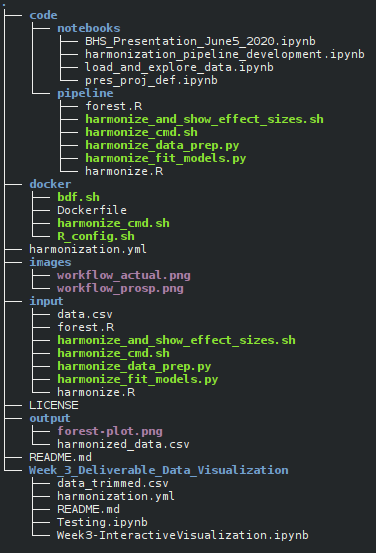
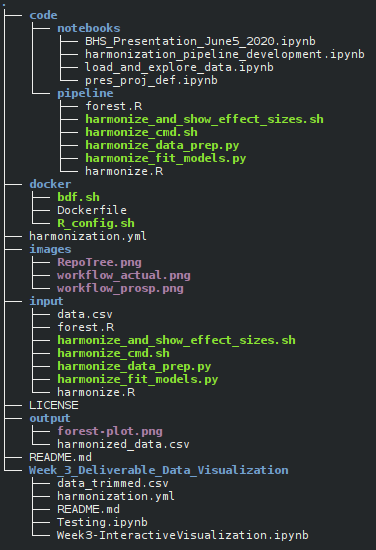
Minor corrections

diff --git a/README.md b/README.md
@@ -99,6 +99,7 @@ The [Github repository](https://github.com/brainhack-school2020/dnmacdon_ASD_mul
  * The slides used for the final Brainhack School presentation
 
 The structure of the repository is shown below:
+
 ![Repository Structure](images/RepoTree.png)
 
 ### Deliverable 2: Mini-Pipeline to test ComBat Data Harmonization
@@ -121,8 +122,11 @@ Jupyter notebooks were written to facilitate interactive data exploration. Sever
 The conda environment file harmonization.yml is included in the repository, allowing the Python environment used in this project to be recreated. Note that the R environment was not virtualized in the same way, necessitating the use of Docker.
 
 ### Deliverable 5: Containerization with Docker
-The pipeline uses both Python and R. While virtualizing Python environments is readily done with conda, it is more difficult to do so with R. For this reason, the entire environment was constructed in a Docker container in which the pipeline runs. See above for more details.
- 
+The pipeline uses both Python and R. While virtualizing Python environments is readily done with conda, it is more difficult to do so with R. For this reason, the entire environment was constructed in a Docker container in which the pipeline runs. See above for more details. The docker folder in the repository contains:
+ * bdf.sh: contains the shell command used to build the dockerfile using neurodocker
+ * R_config.sh: contains a script called during dockerfile construction, to configure R
+ * Dockerfile: the specification file for the Docker container, build using the scripts above.
+
 ## Results
  1. Combat harmonization shifted the subcortical volume distributions, typically subtly.
  2. The effects of ASD diagnosis on subcortical volumes were generally non-significant using all three measures.
@@ -162,6 +166,7 @@ A number of improvements are possible.
  * With some minor modifications, vertex-wise analyses could be run using this code. ComBat harmonization may be better suited to vertex-wise data.
  * This design, with the Docker container used only to contain the environment, not the data or code, allows the container and code to be reused more easily in different applications. However, for reproducibility, it would also be useful to provide a Docker container that included all of the code, and perhaps the data as well.
  * The Docker container is very large at about 1.5 GB. This size is due mainly to the R installation, and could likely be optimized.
+ * The pipeline code exists in both code/pipeline and input directories. Ideally symbolic links would be used, however Docker does not follow links (perhaps for security reasons) and GitHub stores the contents of the links. It may be worthwhile to reorganize the repository to eliminate the duplicated code.
 
 ## Acknowledgements
 Thanks to all of the instructors, teaching assistants, and participants of the Brainhack School 2020! Thanks to the organizers, J.B. Poline, Pierre Belec, Tristan Glatard, and Benjamin de Leener, with particular thanks to Pierre for his patience.
